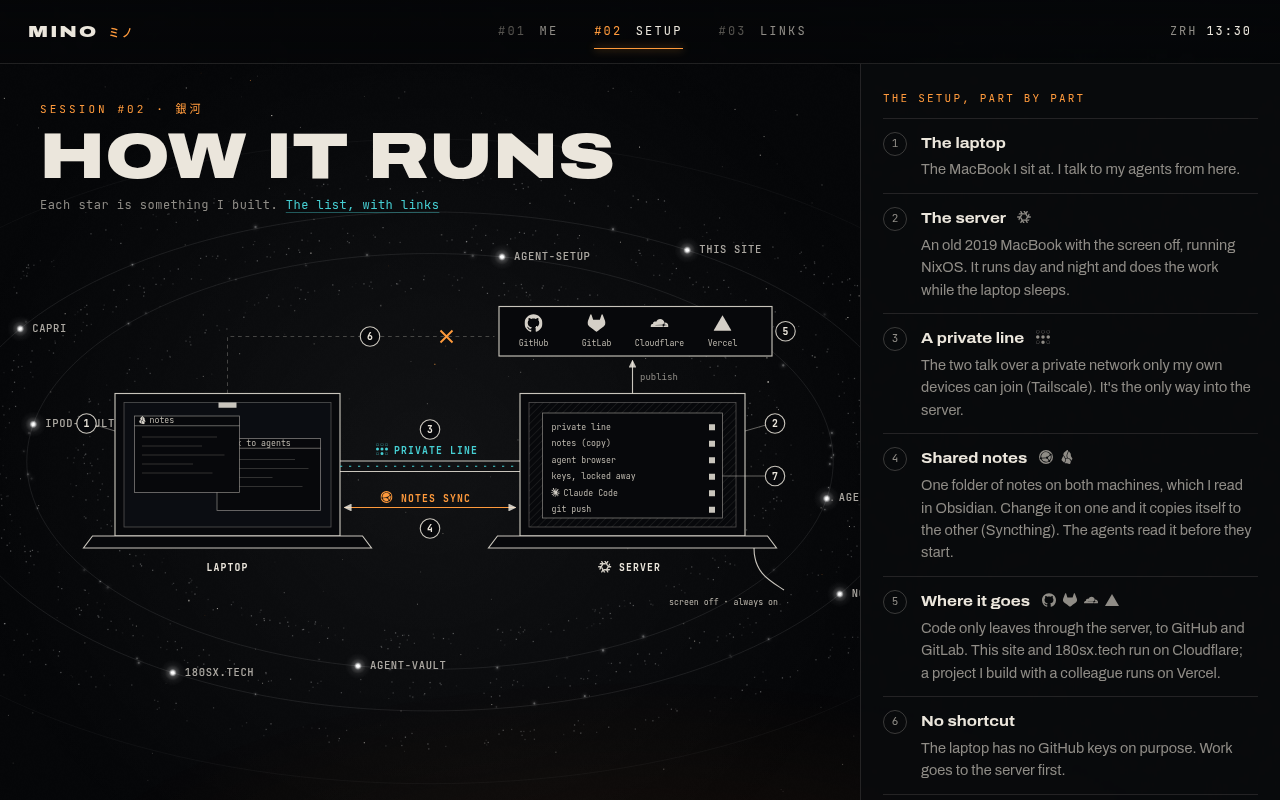
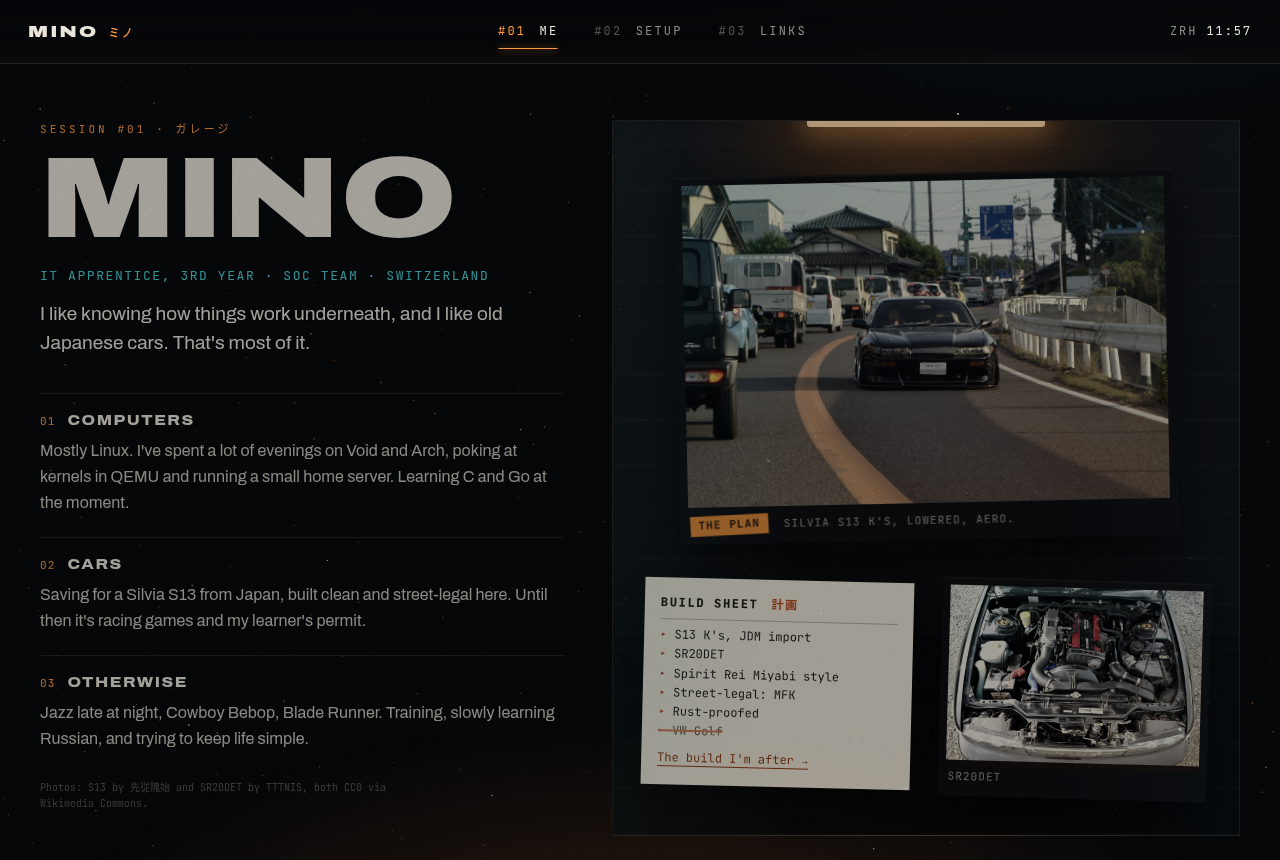
Refresh the profile: C struct, garage screenshot, phosphene
The about-me struct is now C instead of Go, and the setup reflects the
current two machines (the ThinkPad is retired). The screenshot shows the
site's #01 garage page instead of the setup diagram. phosphene joins the
project list.

diff --git a/README.md b/README.md
@@ -1,31 +1,35 @@
 <h1 align="center">Hi, I'm mino</h1>
 <h3 align="center">I build small tools and look at JDM cars</h3>
 
-## about_me.go
+## about_me.c
 
-```go
-package main
+```c
+#include <stddef.h>
 
-type Me struct {
-	Handle    string
-	Role      string
-	Setup     []string
-	Languages []string
-	Into      []string
-	Garage    string
-}
+struct me {
+	const char *handle;
+	const char *role;
+	const char *const *setup;
+	const char *const *languages;
+	const char *const *into;
+	const char *garage;
+};
 
-var mino = Me{
-	Handle:    "minomat180",
-	Role:      "IT apprentice, 3rd year, SOC team",
-	Setup:     []string{"Void Linux on a ThinkPad T480", "NixOS home server", "a Mac"},
-	Languages: []string{"C", "Go", "JavaScript", "TypeScript", "Python", "shell"},
-	Into:      []string{"self-hosting", "coding agents", "racing games", "Cowboy Bebop"},
-	Garage:    "learner's permit, one day an S13 Silvia",
-}
+static const struct me mino = {
+	.handle    = "minomat180",
+	.role      = "IT apprentice, 3rd year, SOC team",
+	.setup     = (const char *const[]){ "a MacBook I sit at",
+	                                    "an old MacBook running NixOS as a home server",
+	                                    "Tailscale in between", NULL },
+	.languages = (const char *const[]){ "C", "Go", "JavaScript", "TypeScript",
+	                                    "Python", "shell", NULL },
+	.into      = (const char *const[]){ "self-hosting", "coding agents", "racing games",
+	                                    "Cowboy Bebop", "jazz late at night", NULL },
+	.garage    = "learner's permit, one day an S13 Silvia",
+};
 ```
 
-<a href="https://mino.180sx.tech"><img src="site.png" alt="mino.180sx.tech, the setup page" width="100%"></a>
+<a href="https://mino.180sx.tech"><img src="site.png" alt="mino.180sx.tech, the garage page" width="100%"></a>
 
 ## What I am working on
 
@@ -35,6 +39,7 @@ var mino = Me{
 - [agent-setup](https://github.com/minomat180/agent-setup) - restore kit for my two-machine agent setup
 - [capri-desktop](https://github.com/minomat180/capri-desktop) - Capri, a desktop companion that narrates Claude Code, on Linux and macOS
 - [lenotch](https://github.com/minomat180/lenotch) - MacBook notch utility: now playing, file shelf, HUDs
+- [phosphene](https://github.com/minomat180/phosphene) - vibe-coded fork of Phosphene: video wallpaper on the lock screen, its own image on the desktop
 - [180sx.tech](https://github.com/minomat180/180sx-zine) - a Nissan 180SX fan zine as a fake Windows 98 desktop
 - [mino.180sx.tech](https://mino.180sx.tech) - my personal page
 
